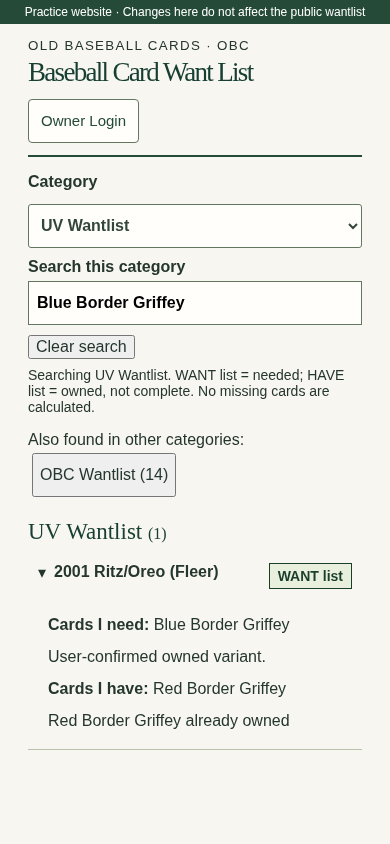
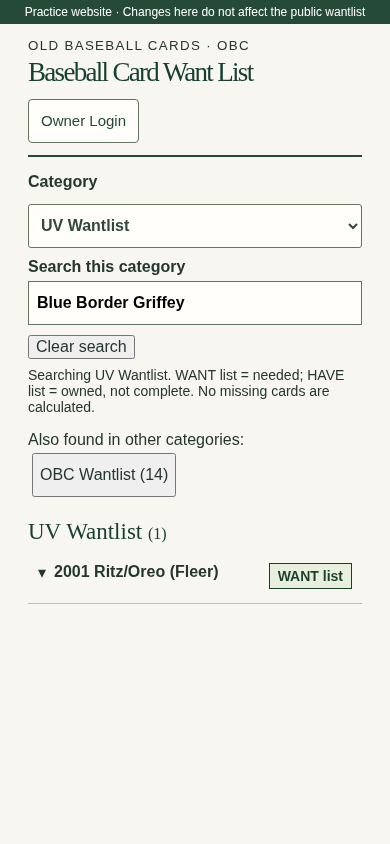
Preserve autograph qualifier in compact photograph listing

Changed region(s): [[0.1231, 0.7085, 0.7385, 0.8626]]

diff --git a/owner/browser-tests/editor.spec.js b/owner/browser-tests/editor.spec.js
@@ -105,7 +105,7 @@ test('seven document categories, single special lists, uncertainty, compact rows
  await expect(page.getByRole('combobox',{name:'Category',exact:true})).toHaveValue('OBC Wantlist');await expect(page.getByRole('option')).toHaveCount(7);await expect(page.getByLabel('Status',{exact:true})).toHaveCount(0);
  await expect(page.locator('.compact-list .listing-row').first()).toBeVisible();await page.screenshot({path:`docs/evidence/phase3b3-revision/${info.project.name}-compact-list.png`});
  for(const [category,label,value] of [['Eau Claire Players','Items I need:','Henry Aaron'],['Milwaukee 8x10 List','Items I have:','Aaron, H'],['Brewers Bobblehead Wantlist','Items I need:',null]]){
-  await page.getByRole('combobox',{name:'Category',exact:true}).selectOption(category);const rows=page.locator('.compact-list .listing-row');await expect(rows).toHaveCount(1);await rows.first().locator('summary').click();await expect(rows.first()).toContainText(label);if(value)await expect(rows.first()).toContainText(value);if(category==='Milwaukee 8x10 List')await expect(rows.first()).not.toContainText('Items I need:');if(category==='Brewers Bobblehead Wantlist')await page.screenshot({path:`docs/evidence/phase3b3-revision/${info.project.name}-special-list.png`});await rows.first().locator('summary').click();await expect(rows.first()).not.toHaveAttribute('open','');
+  await page.getByRole('combobox',{name:'Category',exact:true}).selectOption(category);const rows=page.locator('.compact-list .listing-row');await expect(rows).toHaveCount(1);await rows.first().locator('summary').click();await expect(rows.first()).toContainText(label);if(value)await expect(rows.first()).toContainText(value);if(category==='Milwaukee 8x10 List'){await expect(rows.first()).not.toContainText('Items I need:');await expect(rows.first()).toContainText('Autographs');}if(category==='Brewers Bobblehead Wantlist')await page.screenshot({path:`docs/evidence/phase3b3-revision/${info.project.name}-special-list.png`});await rows.first().locator('summary').click();await expect(rows.first()).not.toHaveAttribute('open','');
  }
  await page.getByRole('combobox',{name:'Category',exact:true}).selectOption('OBC Wantlist');await page.getByRole('searchbox',{name:'Search this category'}).fill('Green Mountain');const uncertain=page.locator('.compact-list .listing-row').first();await uncertain.locator('summary').click();await expect(uncertain).toContainText('purportedly');await expect(uncertain).toContainText('HAVE list');await expect(uncertain).not.toContainText('UNCERTAIN');
  await page.getByRole('searchbox',{name:'Search this category'}).fill('');await page.getByRole('combobox',{name:'Category',exact:true}).selectOption('UV Wantlist');await page.getByRole('searchbox',{name:'Search this category'}).fill('Blue Border Griffey');await page.locator('.compact-list .listing-row').first().locator('summary').click();await page.screenshot({path:`docs/evidence/phase3b3-revision/${info.project.name}-expanded-want.png`});

diff --git a/owner/Browse.jsx b/owner/Browse.jsx
@@ -15,7 +15,7 @@ function Contents({record:r}){
   if(!values.length&&g.list_type!=='complete')return null;
   const declared=g.list_type||r.list_type;const mode=declared==='uncertain'&&compactStatus(r)==='HAVE list'?'have_list':declared;
   return <section key={n}>{g.label&&<h3>{itemMode?g.label.replace(/ · Preserved source information$/, ''):g.label}</h3>}{g.description&&<p>{g.description}</p>}{mode==='complete'?<p>Complete</p>:<p><strong>{mode==='pending'?'Already expected — please do not send duplicates:':mode==='have_list'?`${itemMode?'Items':'Cards'} I have:`:mode==='want_list'?`${itemMode?'Items':'Cards'} I need:`:'Preserved source information:'}</strong> {values.join(g.items?.length&&!g.card_numbers?.length?'; ':', ')}</p>}{(n?asArray(g.notes):[]).map((s,i)=><p key={i}>{s}</p>)}</section>;
- })}{asArray(r.notes).filter(n=>!itemMode||!['Milwaukee Baseball 8x10 Autographs','Milwaukee Baseball 8x10 HAVE list','Eau Claire Players',r.set_name].includes(n)&&!/^_+$/.test(n)).map((s,i)=><p key={'note'+i}>{s}</p>)}{asArray(r.uncertainty).length>0&&<p className="source-note">Original wording: {r.uncertainty.join(' ')}</p>}</div>;
+ })}{asArray(r.notes).filter(n=>!itemMode||!['Milwaukee Baseball 8x10 HAVE list','Eau Claire Players',r.set_name].includes(n)&&!/^_+$/.test(n)).map((s,i)=><p key={'note'+i}>{s}</p>)}{asArray(r.uncertainty).length>0&&<p className="source-note">Original wording: {r.uncertainty.join(' ')}</p>}</div>;
 }
 
 function ListingRow({record:r,ownerAction}){

diff --git a/docs/PHASE_3B3_UX_REVISION.md b/docs/PHASE_3B3_UX_REVISION.md
@@ -290,3 +290,5 @@ by the technical maintainer; automated tests used only a disposable PIN.
 Empty historical primary Complete placeholders are not presented as current completion after reopening a set as WANT; meaningful completed-year sublists remain. The fixed special-container delete API was tested against actual staging and rejected without changing data.
 
 Some legacy source-text entries remain non-actionable until their individual identity is confirmed through explicit owner entry/list replacement. Their literal contents are preserved; no card identity or checklist complement is guessed. Human UX review should include these exceptional entries.
+
+The meaningful Milwaukee “Autographs” qualifier remains visible in the expanded photograph list. A final desktop/mobile category-browser recheck passed (2/2); staging endpoints and previews were disabled again afterward.
